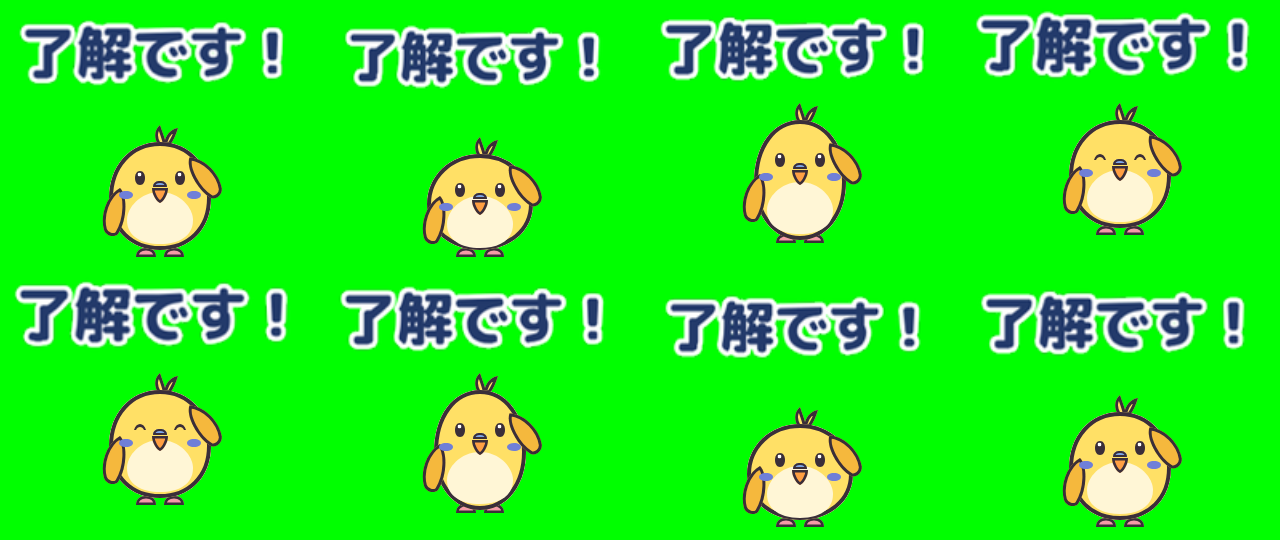
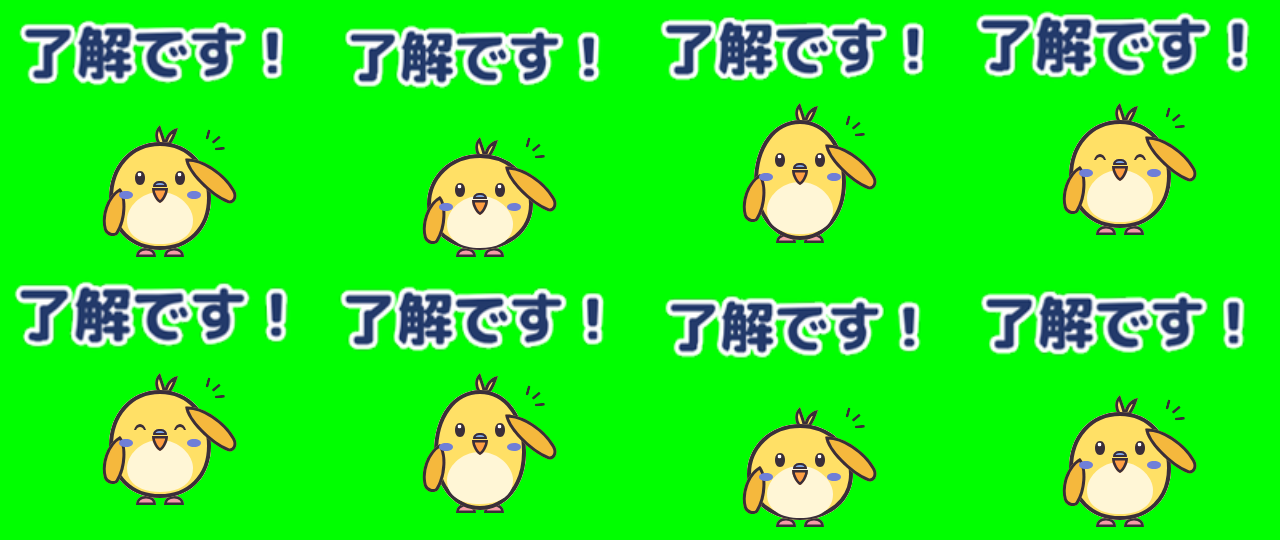
set01: QA round 2 fixes (salute redesign with emphasis lines on 01/05, 01 frame-5 text margin)
Claude-Session: https://claude.ai/code/session_01RfomAZL54wRevPjVr3cHPk

diff --git a/tools/inko.py b/tools/inko.py
@@ -10,6 +10,7 @@ SVG パス(M/L/C/Z のみ)に変換して図形として描く。
 """
 import argparse
 import copy
+import math
 import json
 import subprocess
 import tempfile
@@ -160,7 +161,16 @@ def J1(c):
 
 
 def J2(c): move(c, list(c), dy=-22)
-def SAL(c, dy=0): wing(c, "P7", 206, 176 + dy, -25)
+def SAL(c, dy=0):
+    """敬礼: 右羽を体の外側から上げ、細い羽先をおでこの右上に当てる(羽は30x70に伸ばす)。"""
+    c["P7"].update(h=70, vw=30, vh=52)
+    wing(c, "P7", 212, 178 + dy, -42)
+    # 羽先の右上に「ビシッ」の強調線を3本(放射状)
+    for k, ang in enumerate((-75, -40, -5)):
+        r = math.radians(ang)
+        cx, cy = 204 + 16 * math.cos(r), 150 + dy + 16 * math.sin(r)
+        c[f"SAL{k}"] = dict(fill=INK, stroke=None, sw=0, w=10, h=3, left=cx - 5, top=cy - 1.5,
+                            d="M1.5 0 L8.5 0 A1.5 1.5 0 0 1 8.5 3 L1.5 3 A1.5 1.5 0 0 1 1.5 0 Z", rot=ang)
 def W_A(c): wing(c, "P7", 215, 180, -150); happy(c)
 def W_B(c): wing(c, "P7", 228, 184, -115); happy(c)
 def N1(c): wing(c, "P6", 100, 190, 90); wing(c, "P7", 220, 190, -90)
@@ -309,7 +319,7 @@ ZZ = [[zz(228, 160, 28)], [zz(232, 152, 28)], [zz(236, 144, 28), zz(222, 168, 20
 
 STAMPS = {
     "01": [F([SAL], T(L01, 48)), F([S]), F([J0]), F([S], T(L01, 29)),
-           F([SAL], T(L01, 54), [spark(58, 70), spark(262, 70)]),
+           F([SAL], T(L01, 54, dy=4), [spark(58, 70), spark(262, 70)]),
            F([SAL], T(L01, 46)), F([SAL], T(L01, 50)), F([SAL], T(L01, 48))],
     "02": [F([B2], T(L02, 48, dy=6)), F([B2], T(L02, 48, dy=6)), F([B1], T(L02, 48, dy=3)),
            F([happy], T(L02, 48)), F([happy], T(L02, 48), [spark(88, 150), spark(232, 140)]),

diff --git a/work/set01/qa.md b/work/set01/qa.md
@@ -4,7 +4,37 @@
 - 対象: `anim/01.png`〜`08.png`(APNG)、`main.png`、`tab.png`、`design/0N_sheet.png`
 - 確認方法: APNG から全コマを取り出し、白背景・黒背景(ダークモード想定)に重ねて全コマを目で確認。キャラの周りは2〜3倍に拡大して確認。緑残りは画素単位で調べた(色相 65〜170°・彩度 0.25 以上・半透明の画素)
 
-## 総合判定: **要修正**
+## 再チェック(修正1回目, 2026-10-20) 総合判定: **要修正**(01・05 の敬礼だけ残っている)
+
+修正版の APNG(01/03/05/07)・シート・main・tab を、初回と同じ方法で確認した(全コマを取り出し、白・黒の背景に重ねて2〜6倍に拡大し、緑残りは画素単位で調べた)。規定チェックは8個すべて OK。緑残りと半透明の画素は、APNG 全コマで0。
+
+| No | 判定 | 結果 | 差し戻し先 |
+|---|---|---|---|
+| 01 承知しました | **要修正** | (1) **敬礼がまだ敬礼に見えない。** 右羽は指示どおり中心(206,176)・−25°になった。しかし羽が頭の右上の輪郭(およそ x190〜218、y157〜197)に沿って垂れ下がる形になり、今度は「**垂れ耳(犬の耳)**」に見える。タブの大きさだとさらにはっきり耳に見える。初回にこちらが出した座標が足りなかった(羽の位置だけでは、肩から上がる腕に見えない)。(2) コマ5の文字は54pxになったが、上端は **y=6** でまだ 10px の余白に4px足りない | デザイン担当 |
+| 02 | 合格(任意改善) | 変更なし。任意改善は未対応(初回の指摘のまま) | - |
+| 03 お疲れさまです | **合格** | W_A の右羽の根元が体の輪郭に重なり、浮きはなくなった。W_A と W_B を交互に見ても、手をふる動きとして自然 | - |
+| 04 | 合格(任意改善) | 変更なし | - |
+| 05 了解です! | **要修正** | 敬礼が 01 と同じ「垂れ耳」に見える(全コマ。J1 で体が伸びるとさらに耳らしく見える)。文字が左に寄っている点(任意)は未対応 | デザイン担当 |
+| 06 | 合格(任意改善) | 変更なし。容量の残りは約1.4KB のまま | - |
+| 07 おはようございます | **合格** | N2 の両羽が体に接し、ばんざいに見えるようになった。キラキラも羽とぶつからず、バランスもよい | - |
+| 08 | 合格 | 変更なし | - |
+| main.png | 合格(01 修正後に作り直す) | 余白は OK(中身 bbox x32〜207・y8〜231、左右の余白はほぼ均等)。足も文字も切れていない。ただし敬礼の絵が 01 と同じなので、01 を直したら作り直す | アニメ化担当 |
+| tab.png | 合格(01 修正後に作り直す) | 文字を外して、キャラだけになった(OK)。冠羽の上の余白は2pxで、タブとしては許容範囲。敬礼が垂れ耳に見えるのは 01 と同じ | アニメ化担当 |
+
+### 01・05 の修正指示(2回目)
+
+羽の座標を変えるだけでは解決しない。「腕が体の横から上がって、羽先がおでこに当たっている」ことが分かる手がかりが要る。次の (a)〜(c) を全部入れる。
+
+- (a) **羽を体の外側から上げる**: 羽の根元(体の側の端)を、体の右側の中ほど(およそ (222,212)、体の輪郭より外)に置く。羽先は **右目のすぐ右上、顔の内側**(およそ (192,160)、輪郭より5px以上内側)まで入れる。羽の長い辺の半分以上が、体のシルエットの外に出るようにする。今のように頭の輪郭に沿わせると耳に見える。羽の長さが足りなければ、SAL のときだけ羽を 30×60 に伸ばしてよい。
+- (b) **羽先を細い側にする**: P7 の細い端(パスの (8,2) 側)がおでこに当たり、丸い端が体の側になる向きにする。丸い端が上にくると耳たぶに見える。
+- (c) **「ビシッ」の強調線を入れる**: 羽先の右上(およそ (226,146))に、短い線3本(`#3A2E39` 3px、長さ8〜10px、放射状)。初回で「入れると分かる」と書いたものを、必須に格上げする。
+- 確認のしかた: 修正したコマ1を 50% に縮めて見て、何も聞かされていない人に「敬礼」と分かるか確かめる。それでも耳に見えるなら、01 のポーズを「片羽を胸に当てて軽くおじぎ」に替えてもよい(セリフ「承知しました」とも合う)。その場合、05 は敬礼のままでよいが、05 にも (a)〜(c) は入れる。
+- 01 コマ5 の文字: 54px のまま、文字の中心 y を 4px 下げて、上端を y≥10 にする。
+- 01・05 を直したら、main.png と tab.png を作り直す(余白は今回の設定のままでよい)。
+
+---
+
+## 初回チェック(2026-10-20) 総合判定: **要修正**
 
 規定(サイズ・コマ数・再生時間・容量)と緑残りは問題なし。ただし **羽の描き方の不具合が 01・03・05・07 の4個に出ていて**、しかもその多くがトーク一覧に静止画で表示されるコマ1に出ている。メイン画像も足が切れている。どれも直し方ははっきりしていて、作り直しの量は多くない。
 
